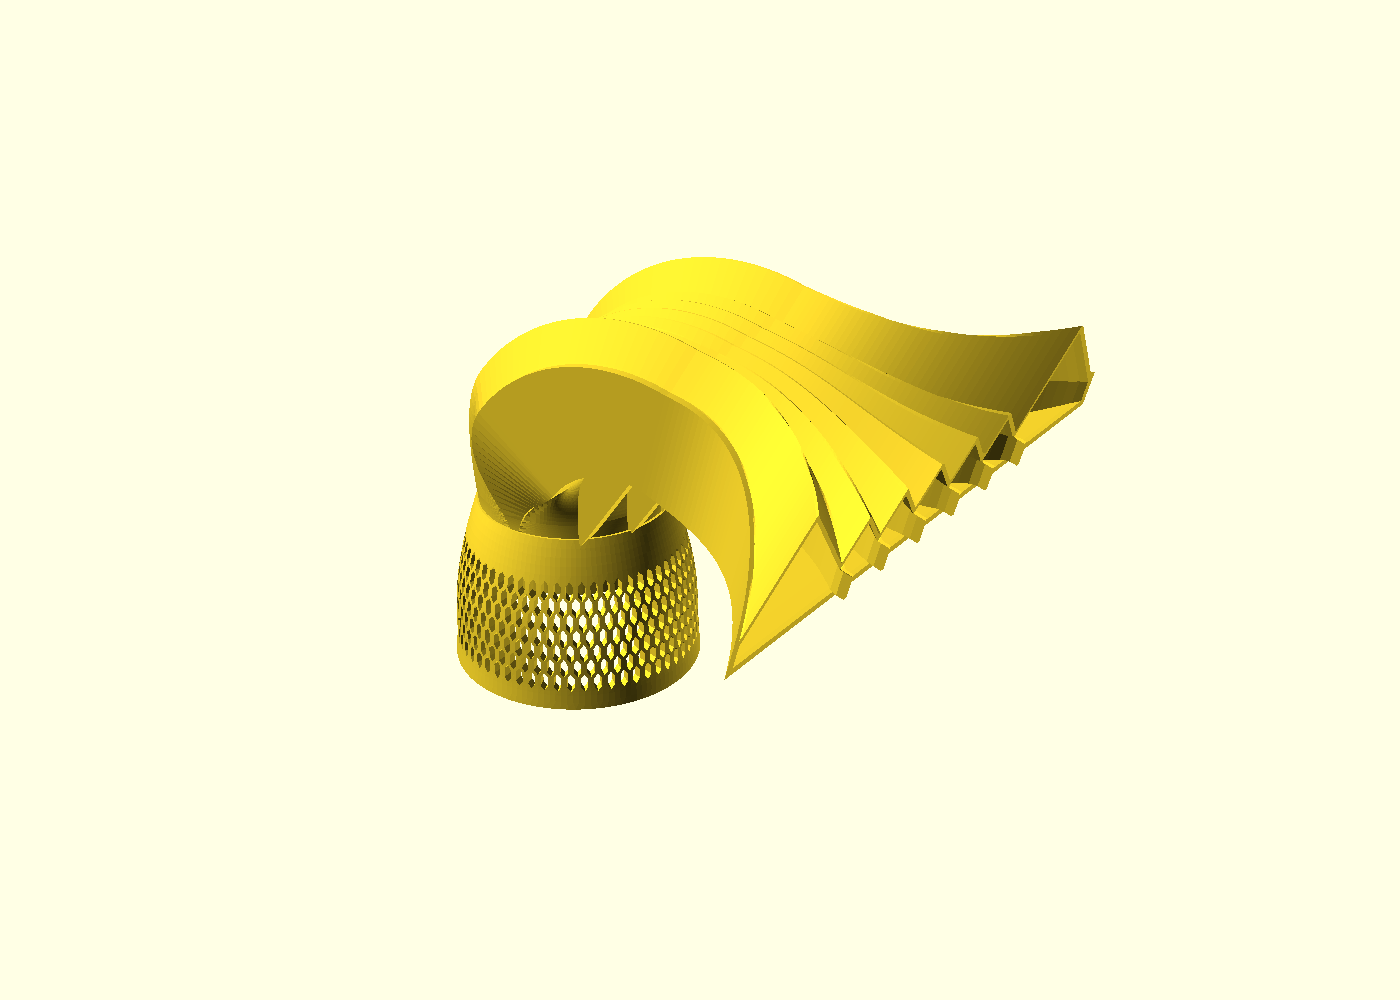
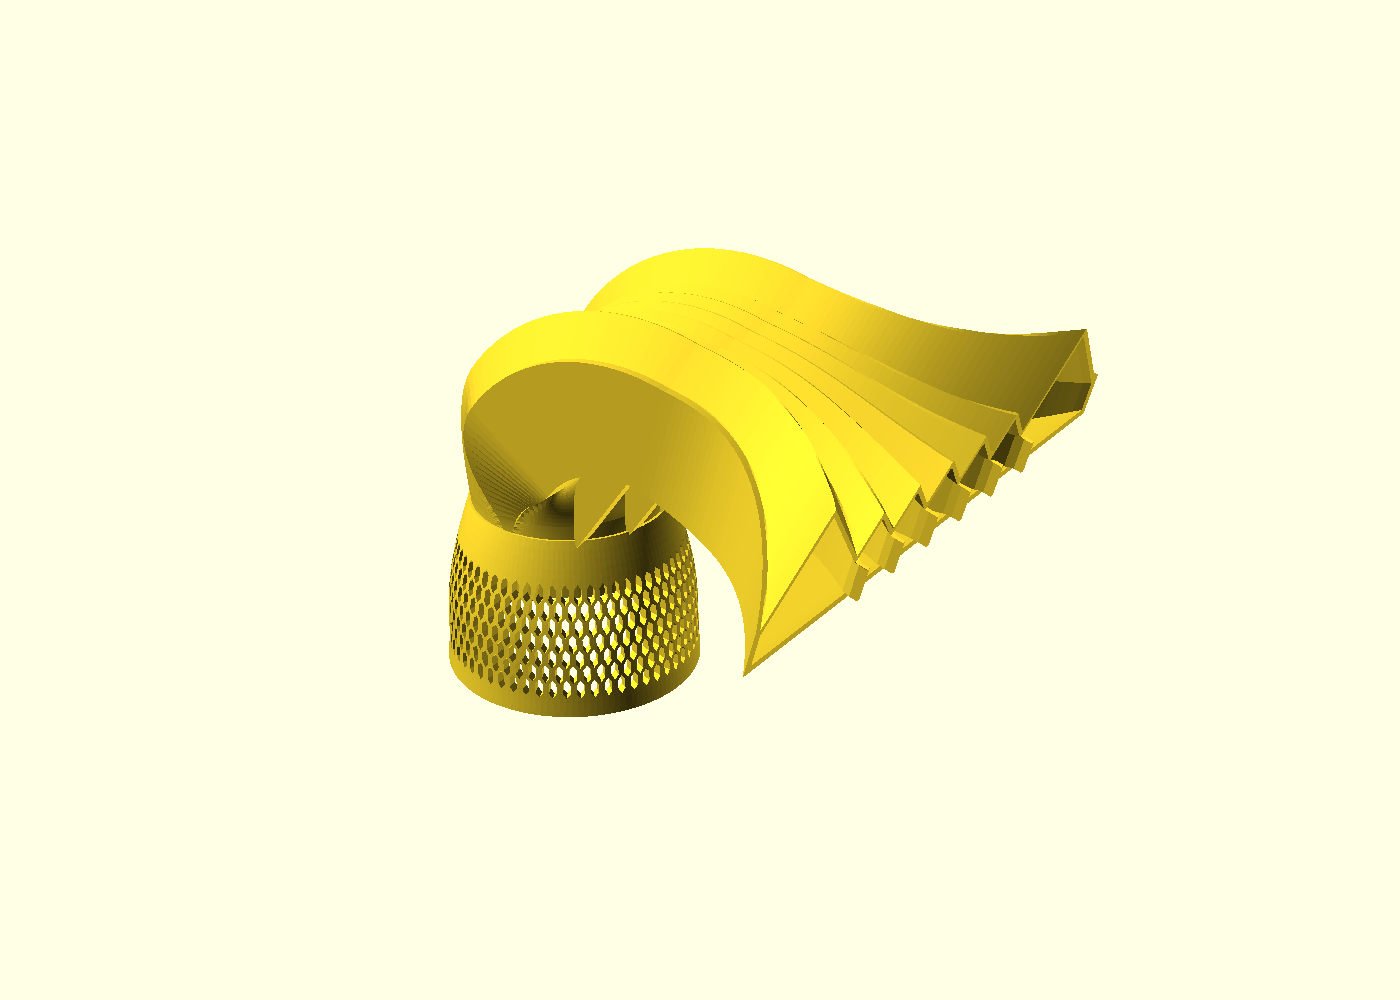
Add MAX_BED_XY build-plate cap; fit MP60 to 270mm bed
Fan width (exit_w) capped 250->230 so the Y footprint drops 256->236mm,
leaving 34mm for a brim. Mount frozen (0.0000mm vs cage). EXIT_AREA is
set by area_ratio, so the narrower exit just gets taller (230x24.5 vs
250x22.5) -- pump K and flow delivery unchanged, marginally less arc.

Changed region(s): [[0.3071, 0.248, 0.7986, 0.744], [0.4914, 0.403, 0.5221, 0.434]]

diff --git a/build_v3.py b/build_v3.py
@@ -69,6 +69,8 @@ WETSIDE_H = 4.0        # glass -> cage rim. EcoTech spec: wet side is
 MAX_TOTAL_H_GLASS = 180.0   # hard cap: part top above the tank floor.
 # Tank-sim design rule still applies: rock directly in FRONT of the exit
 # must sit 20-40mm BELOW the exit centerline (printed on build).
+MAX_BED_XY = 270.0          # printer bed (mm); fan width capped to fit,
+                            # leaving margin for a brim + centering slack.
 
 
 def load_params():
@@ -94,6 +96,15 @@ TILT = float(P['tilt'])
 BEND_R = float(P['bend_r'])
 FAN_LEN = float(P['fan_len'])
 EXIT_W = float(P['exit_w'])
+# fit the fan width to the bed. Y footprint ~= EXIT_W + 2*WALL. The mount
+# and pump load are untouched: EXIT_AREA is fixed by area_ratio below, so a
+# narrower exit just gets taller -> identical flow, slightly less arc.
+_bed_usable = MAX_BED_XY - 34.0        # ~17mm/side: brim + centering slack
+if EXIT_W + 2 * WALL > _bed_usable:
+    _old = EXIT_W
+    EXIT_W = _bed_usable - 2 * WALL
+    print(f'bed cap: exit_w {_old:.0f} -> {EXIT_W:.0f}mm '
+          f'(Y footprint fits {MAX_BED_XY:.0f}mm bed)')
 EXIT_AREA = float(P['area_ratio']) * BORE_AREA
 N_VANES = int(P['n_vanes'])
 FAN_EXP = float(P['exp'])

diff --git a/README.md b/README.md
@@ -30,10 +30,10 @@ rock wrap-over 2.2×, dead zones behind rocks 100% → 73%.
 
 ## Files
 
-- `mp60_shroud_v3.stl` — generated locally (402 cm³; 226×256×175 mm print), see below
+- `mp60_shroud_v3.stl` — generated locally (325 cm³; 226×236×175 mm, fits a 270³ bed), see below
 - `build_v3.py` — fully parametric generator (numpy lofts + manifold
   booleans). Key knobs at top: `MAX_TOTAL_H_GLASS` (height cap, default
-  180), `WETSIDE_H`, wall, vanes. Reads `agent/final.json`.
+  180), `MAX_BED_XY` (build-plate cap, default 270), `WETSIDE_H`, wall, vanes. Reads `agent/final.json`.
 - `cfd/lbm.py` — D2Q9 lattice-Boltzmann + Smagorinsky LES solver:
   elbow slice, fan plan, and closed-tank (with rocks, free surface,
   actuator jet) planes. Mass-balance-validated.